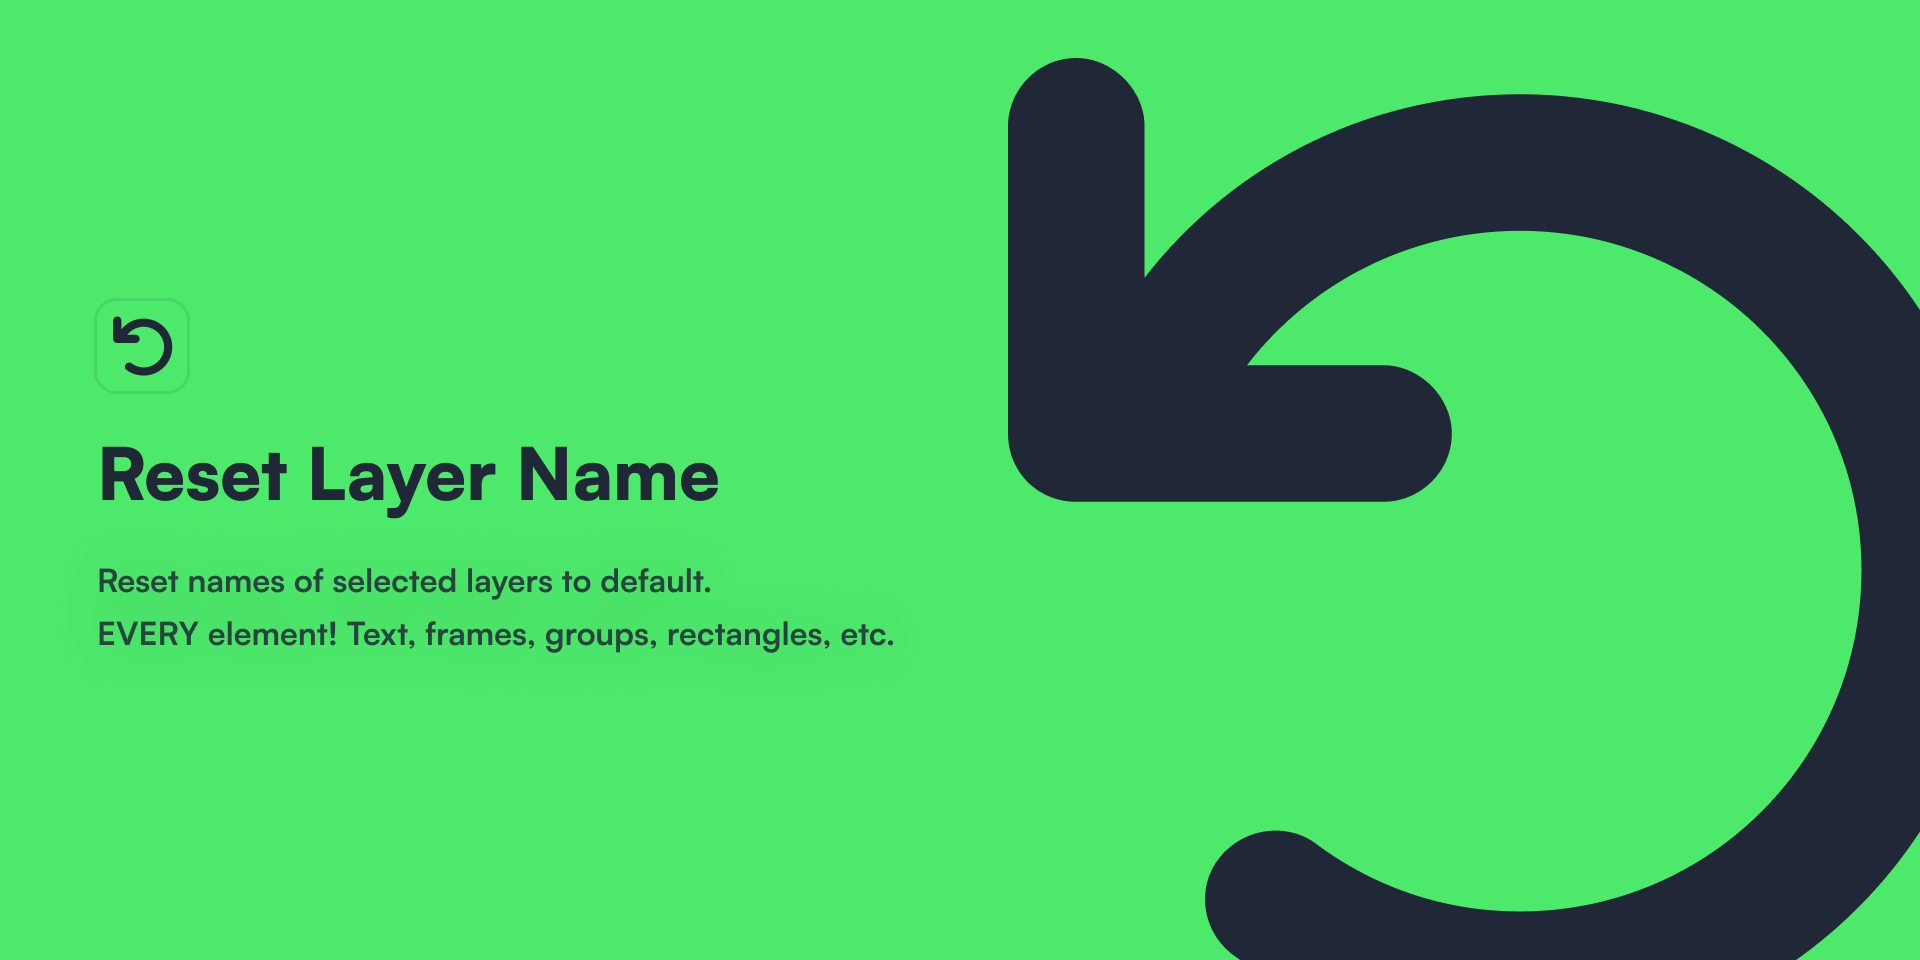
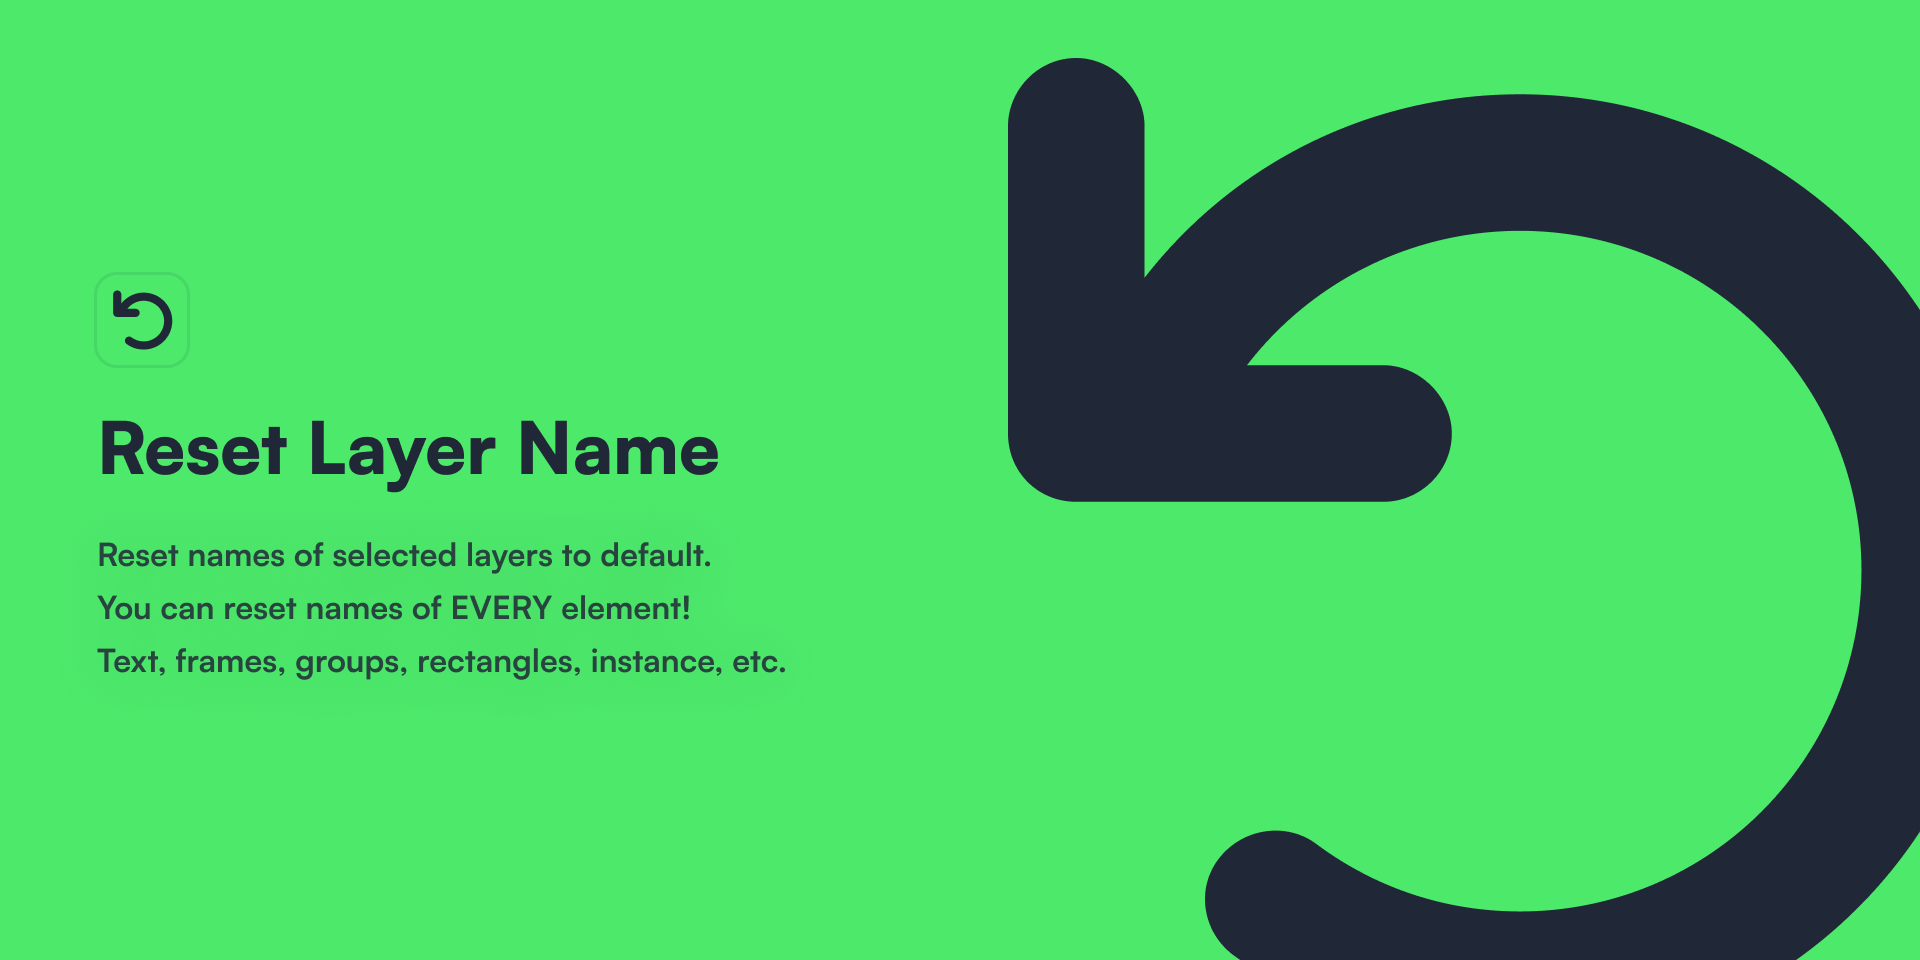
update cover and readme

Changed region(s): [[0.0312, 0.5625, 0.4688, 0.7188], [0.0312, 0.4375, 0.375, 0.5312], [0.0312, 0.2812, 0.0938, 0.4062]]

diff --git a/README.md b/README.md
@@ -3,7 +3,8 @@
 ![](./cover.png)
 
 Reset names of selected layers to default.  
-EVERY element! Text, frames, groups, rectangles, etc.
+You can reset names of EVERY element!  
+Text, frames, groups, rectangles, instance, etc.
 
 ## 🔥 How to use
 
@@ -11,9 +12,22 @@ EVERY element! Text, frames, groups, rectangles, etc.
 2. Run this plugin.
 3. Enjoy🤟
 
-## ✏ Note
+## ✏ Note: Behavior
 
-If you select component or variants, this plugin will not rename. Because we don't want the component renamed!
+This plugin behaves differently depending on the type of element selected.
+
+(Component or variants)  
+This plugin will not rename and keep the original name of the component or variants.
+
+(Instance)  
+This plugin renames the element to the name of the main component.
+
+(Child element of instance)  
+This plugin renames element to the name of the same child element of the main component.  
+Note: Due to limitations of the plugin API, it is not resetting the override. It just renames to the same name.
+
+(Other types of elements)  
+This plugin renames the element to empty. That is, it resets it.
 
 ## 📮 Support
 
